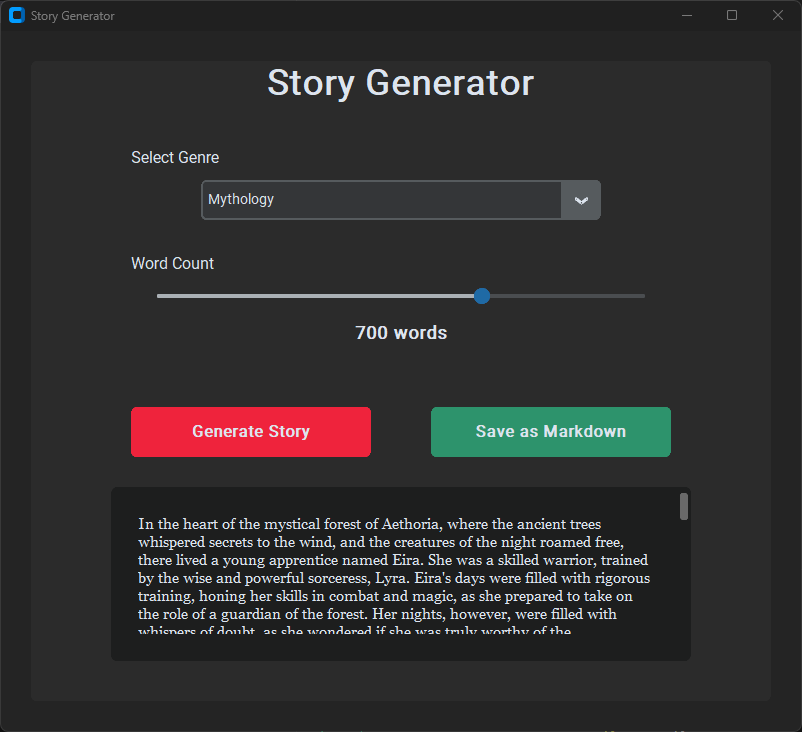
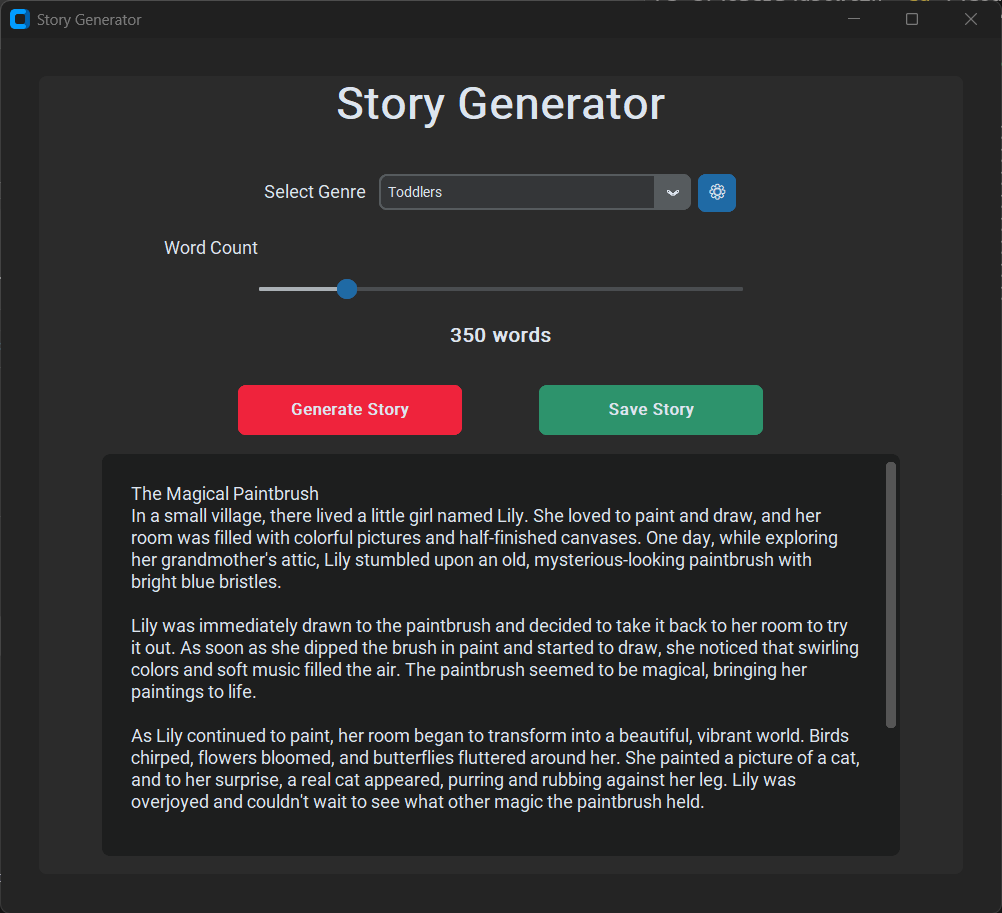
big overhaul, new features, clarifications, better saving

diff --git a/README.md b/README.md
@@ -6,12 +6,14 @@ A desktop application that generates creative stories using AI. Choose from vari
 
 ## Features
 
-- 30+ story genres including Horror, Fantasy, Science Fiction, Romance, Fables, Nursery Rhymes, and more
-- Adjustable word count (100-1000 words)
+- 40+ story genres including Horror, Fantasy, Science Fiction, Romance, Fables, Nursery Rhymes, and more
+- Customizable genre list - add, remove, and manage your own genres
+- Adjustable word count (100-1500 words) with 10-word increments
 - Stories formatted with **bold** emphasis and *italic* text for thoughts/sounds
 - Proper paragraph breaks for easy reading
-- Save generated stories as Markdown files
-- Dark-themed modern UI
+- Save generated stories in multiple formats: Markdown, RTF, DOCX, Text, or PDF
+- Vertical scrollbars in the story area when needed
+- Dark-themed modern UI with compact controls
 
 ## Prerequisites
 
@@ -51,7 +53,12 @@ Groq offers free access to powerful language models with generous rate limits, p
 
 3. Install required packages:
    ```bash
-   pip install customtkinter requests
+   pip install -r requirements.txt
+   ```
+   
+   Or manually:
+   ```bash
+   pip install customtkinter requests python-docx reportlab
    ```
 4. Add your Groq API key to `api_key.json` (see above)
 
@@ -82,20 +89,25 @@ Groq offers free access to powerful language models with generous rate limits, p
    ```
 
 3. Select a genre from the dropdown
-4. Adjust the word count slider
+4. Adjust the word count slider (increments of 10)
 5. Click "Generate Story"
-6. Optionally save the story as a Markdown file
+6. Optionally save the story in your preferred format (Markdown, RTF, DOCX, Text, or PDF)
 
 ## Files
 
 - `main.pyw` - Main application file
 - `api_key.json` - Store your Groq API key here
+- `genres.json` - Customizable list of story genres
+- `requirements.txt` - Python dependencies
 - `README.md` - This file
 - `screenshot.png` - Application screenshot
 
 ## Technologies Used
 
 - **customtkinter** - Modern UI framework for Python
+- **requests** - HTTP library for API calls
+- **python-docx** - Library for creating DOCX files
+- **reportlab** - Library for generating PDF files
 - **Groq API** - Fast, free AI inference using Llama 3.3 70B model
 - **Python 3** - Core programming language
 
